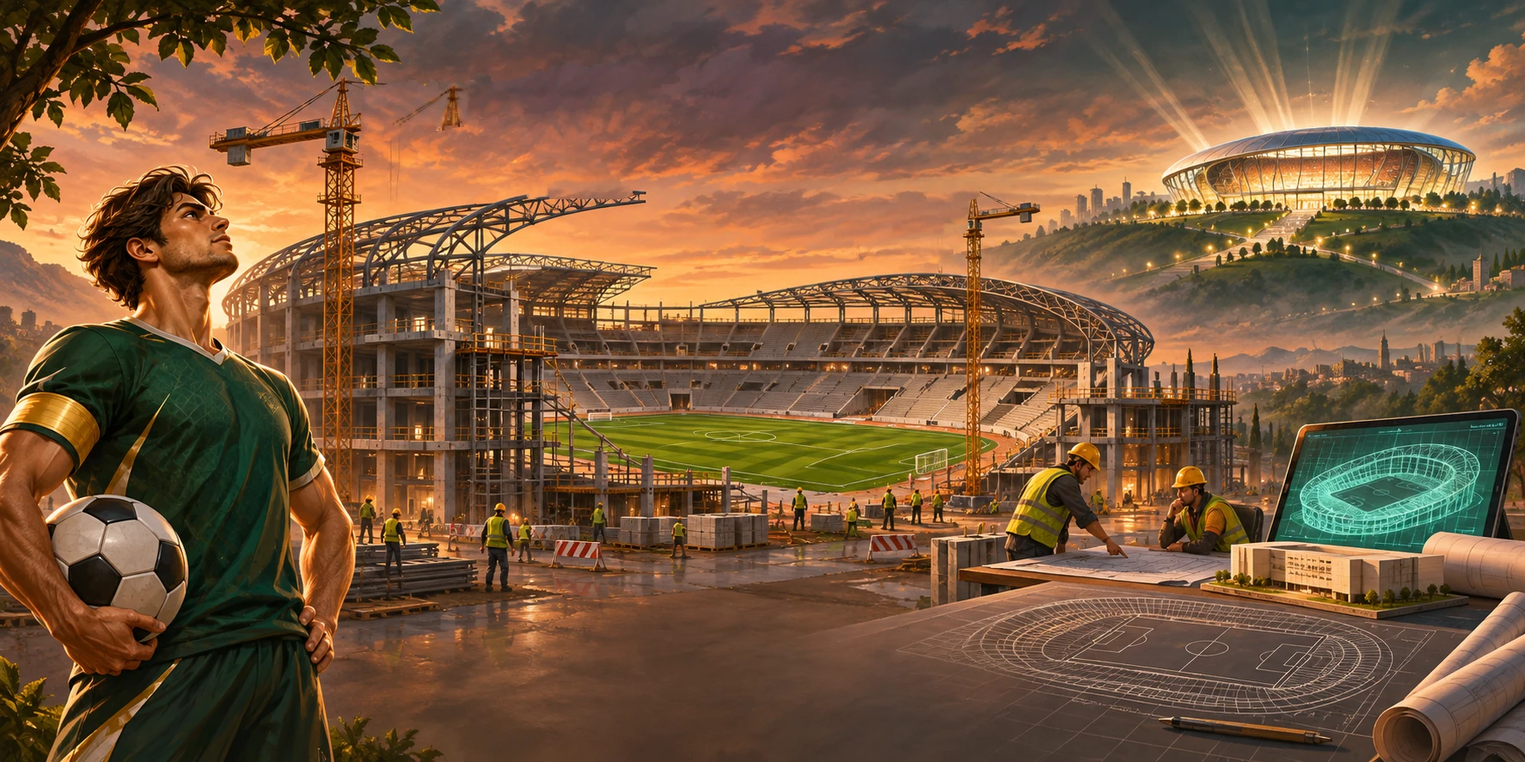
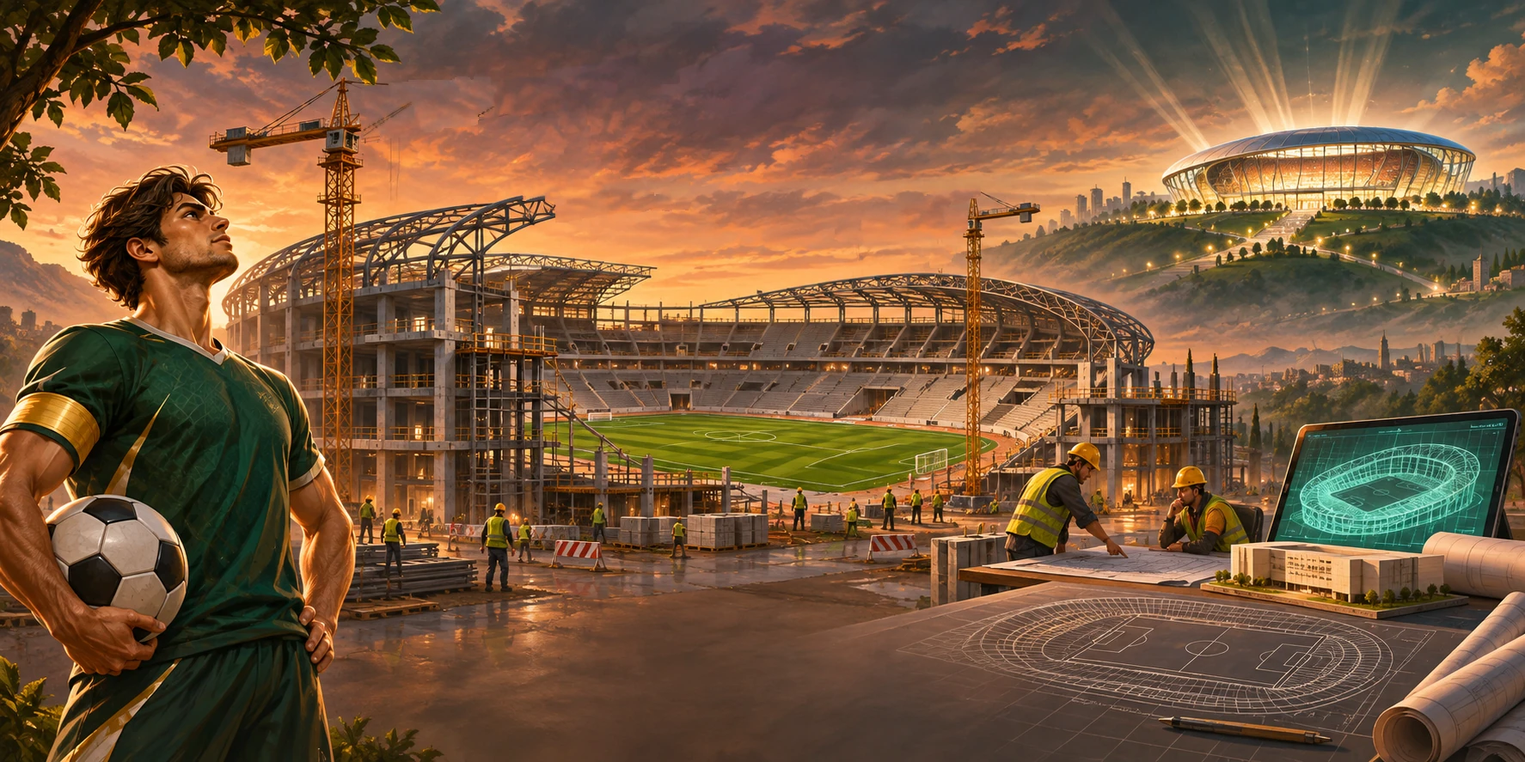
Pantalla final con curva tiempo-costo, registro en ventana con reporte descargable y grúa del estadio corregida
- Curva ilustrativa Tiempo vs Costo (plan sin retrabajo vs tu proyecto) en la columna de resultados
- Botón 'Registro de retrabajos' abre una ventana con el detalle y 'Descargar reporte' (HTML imprimible)
- 'Iniciar otra misión' después del registro
- Arena deportiva: la grúa ya no borra la estructura; la punta del arco que carga se mueve con el gancho y el cable se dibuja entre carro y gancho

Claude-Session: https://claude.ai/code/session_016C4SMzfis9RTQCCeDZUJF5

Changed region(s): [[0.217, 0.0913, 0.372, 0.1826], [0.341, 0.2131, 0.434, 0.3044], [0.5581, 0.274, 0.6201, 0.3348]]

diff --git a/public/scene-anim.js b/public/scene-anim.js
@@ -1,2 +1,2 @@
 // Generado por tools/escenas/build.py. No editar a mano: cambia tools/escenas/spec.py.
-window.SCENE_ANIM = {"gol":{"w":1774,"h":887,"plate":"assets/anim/gol-plate.webp","pieces":[{"id":"g1-pluma","src":"assets/anim/gol-g1-pluma.webp","x":417,"y":58,"w":375,"h":110,"type":"slew","axis":398,"amp":0.06,"period":14,"phase":0,"light":[782,64]},{"id":"g1-eslingas","src":"assets/anim/gol-g1-eslingas.webp","x":609,"y":167,"w":127,"h":65,"type":"erase"},{"id":"g1-gancho","src":"assets/anim/gol-g1-gancho.webp","x":653,"y":91,"w":37,"h":97,"type":"hang","follow":"g1-pluma","top":[670,104],"swing":0,"bob":0,"from":[670,177],"anchors":[[628,218],[672,220],[716,218]]},{"id":"g2-pluma","src":"assets/anim/gol-g2-pluma.webp","x":968,"y":209,"w":174,"h":76,"type":"slew","axis":1131,"amp":0.2,"period":11,"phase":2,"light":[978,268]},{"id":"g2-gancho","src":"assets/anim/gol-g2-gancho.webp","x":1078,"y":255,"w":33,"h":57,"type":"hang","follow":"g2-pluma","top":[1094,266],"swing":1.5,"bob":2}]},"yardas":{"w":1752,"h":897,"plate":"assets/anim/yardas-plate.webp","pieces":[{"id":"y1-pluma","src":"assets/anim/yardas-y1-pluma.webp","x":579,"y":0,"w":397,"h":82,"type":"slew","axis":594,"amp":0.08,"period":13,"phase":0.5,"light":[962,8]},{"id":"y1-carga","src":"assets/anim/yardas-y1-carga.webp","x":663,"y":29,"w":235,"h":167,"type":"hang","follow":"y1-pluma","top":[787,44],"swing":1.0,"bob":1.5},{"id":"y1-obrero","src":"assets/anim/yardas-y1-obrero.webp","x":727,"y":155,"w":35,"h":55,"type":"static"},{"id":"y1-obrero2","src":"assets/anim/yardas-y1-obrero2.webp","x":645,"y":155,"w":35,"h":53,"type":"static"},{"id":"y2-pluma","src":"assets/anim/yardas-y2-pluma.webp","x":1520,"y":6,"w":198,"h":226,"type":"luff","pivot":[1676,218],"deg":2.0,"period":10,"phase":1.2,"light":[1544,22]},{"id":"y2-carga","src":"assets/anim/yardas-y2-carga.webp","x":1479,"y":7,"w":111,"h":204,"type":"hang","follow":"y2-pluma","top":[1533,24],"swing":1.4,"bob":2}]},"pista":{"w":1774,"h":887,"plate":"assets/anim/pista-plate.webp","pieces":[{"id":"p1-pluma","src":"assets/anim/pista-p1-pluma.webp","x":539,"y":41,"w":306,"h":145,"type":"slew","axis":528,"amp":0.14,"period":12,"phase":0,"light":[836,58]},{"id":"p1-carga","src":"assets/anim/pista-p1-carga.webp","x":595,"y":93,"w":171,"h":198,"type":"hang","follow":"p1-pluma","top":[704,112],"swing":1.6,"bob":2},{"id":"p2-pluma","src":"assets/anim/pista-p2-pluma.webp","x":980,"y":121,"w":76,"h":105,"type":"slew","axis":966,"amp":0.05,"period":10,"phase":2.4,"light":[1048,212]},{"id":"p2-carga","src":"assets/anim/pista-p2-carga.webp","x":1000,"y":205,"w":73,"h":156,"type":"hang","follow":"p2-pluma","top":[1033,218],"swing":1.2,"bob":1.5}]},"guardian":{"w":1600,"h":800,"plate":"assets/anim/guardian-plate.webp","pieces":[{"id":"g1-panel","src":"assets/anim/guardian-g1-panel.webp","x":240,"y":0,"w":143,"h":407,"type":"hang","top":[335,0],"swing":2.0,"bob":3,"period":9,"phase":0.8},{"id":"g2-pluma","src":"assets/anim/guardian-g2-pluma.webp","x":809,"y":179,"w":237,"h":161,"type":"slew","axis":1036,"amp":0.2,"period":12,"phase":2,"light":[822,318]},{"id":"g2-gancho","src":"assets/anim/guardian-g2-gancho.webp","x":907,"y":287,"w":37,"h":137,"type":"hang","follow":"g2-pluma","top":[924,302],"swing":1.5,"bob":2}]},"rosa":{"w":1600,"h":800,"plate":"assets/anim/rosa-plate.webp","pieces":[{"id":"carga","src":"assets/anim/rosa-carga.webp","x":1461,"y":0,"w":139,"h":294,"type":"hang","top":[1539,0],"swing":2.0,"bob":3,"period":8,"phase":0}]},"samurai":{"w":1600,"h":800,"plate":"assets/anim/samurai-plate.webp","pieces":[{"id":"s1-pluma","src":"assets/anim/samurai-s1-pluma.webp","x":179,"y":230,"w":261,"h":178,"type":"slew","axis":186,"amp":0.15,"period":13,"phase":1,"light":[426,394]},{"id":"s1-gancho","src":"assets/anim/samurai-s1-gancho.webp","x":299,"y":361,"w":39,"h":93,"type":"hang","follow":"s1-pluma","top":[317,372],"swing":1.5,"bob":2},{"id":"s2-pluma","src":"assets/anim/samurai-s2-pluma.webp","x":1461,"y":77,"w":139,"h":97,"type":"slew","axis":1478,"amp":-0.1,"period":15,"phase":3}]},"bloques":{"w":1774,"h":887,"plate":"assets/anim/bloques-plate.webp","pieces":[{"id":"b1-pluma","src":"assets/anim/bloques-b1-pluma.webp","x":690,"y":0,"w":338,"h":146,"type":"slew","axis":1022,"amp":-0.1,"period":13,"phase":0.4,"light":[700,10]},{"id":"b1-carga","src":"assets/anim/bloques-b1-carga.webp","x":684,"y":7,"w":133,"h":216,"type":"hang","follow":"b1-pluma","top":[749,22],"swing":2.0,"bob":3},{"id":"b2-pluma","src":"assets/anim/bloques-b2-pluma.webp","x":125,"y":156,"w":143,"h":64,"type":"slew","axis":121,"amp":0.2,"period":9,"phase":2.2,"light":[258,168]},{"id":"b2-gancho","src":"assets/anim/bloques-b2-gancho.webp","x":220,"y":170,"w":32,"h":61,"type":"hang","follow":"b2-pluma","top":[236,184],"swing":1.5,"bob":1}]},"magia":{"w":1752,"h":897,"plate":"assets/anim/magia-plate.webp","pieces":[{"id":"arco1","src":"assets/anim/magia-arco1.webp","x":965,"y":55,"w":63,"h":109,"type":"bob","amp":[0,-5],"rot":0.8,"period":7,"phase":0},{"id":"arco2","src":"assets/anim/magia-arco2.webp","x":1022,"y":22,"w":106,"h":124,"type":"bob","amp":[0,-5],"rot":-0.6,"period":8,"phase":1.3},{"id":"arco3","src":"assets/anim/magia-arco3.webp","x":1287,"y":15,"w":103,"h":127,"type":"bob","amp":[0,-5],"rot":0.6,"period":7.5,"phase":2.4},{"id":"arco4","src":"assets/anim/magia-arco4.webp","x":1404,"y":33,"w":68,"h":123,"type":"bob","amp":[0,-5],"rot":-0.8,"period":6.5,"phase":3.1},{"id":"arco5","src":"assets/anim/magia-arco5.webp","x":1508,"y":78,"w":203,"h":192,"type":"bob","amp":[0,-4],"rot":0.4,"period":9,"phase":4.0},{"id":"flujo1","src":"assets/anim/magia-flujo1.webp","x":796,"y":417,"w":68,"h":57,"type":"glide","vec":[12,-7],"float":2,"period":6,"phase":0},{"id":"flujo2","src":"assets/anim/magia-flujo2.webp","x":761,"y":396,"w":59,"h":50,"type":"glide","vec":[12,-7],"float":2,"period":6,"phase":0.8},{"id":"flujo3","src":"assets/anim/magia-flujo3.webp","x":777,"y":370,"w":59,"h":46,"type":"glide","vec":[12,-7],"float":2,"period":6,"phase":1.6},{"id":"flujo4","src":"assets/anim/magia-flujo4.webp","x":819,"y":354,"w":43,"h":43,"type":"glide","vec":[10,-6],"float":2,"period":6,"phase":2.4},{"id":"flujo5","src":"assets/anim/magia-flujo5.webp","x":841,"y":341,"w":56,"h":46,"type":"glide","vec":[10,-6],"float":2,"period":6,"phase":3.2},{"id":"flujo6","src":"assets/anim/magia-flujo6.webp","x":880,"y":319,"w":72,"h":50,"type":"glide","vec":[10,-6],"float":2,"period":6,"phase":4.0},{"id":"puente1","src":"assets/anim/magia-puente1.webp","x":1048,"y":571,"w":142,"h":100,"type":"glide","vec":[10,-3],"float":2,"period":7,"phase":0},{"id":"puente2","src":"assets/anim/magia-puente2.webp","x":1225,"y":533,"w":146,"h":78,"type":"glide","vec":[10,-3],"float":2,"period":7,"phase":1.2},{"id":"puente3","src":"assets/anim/magia-puente3.webp","x":1365,"y":529,"w":80,"h":63,"type":"glide","vec":[8,-2],"float":2,"period":7,"phase":2.4},{"id":"puente4","src":"assets/anim/magia-puente4.webp","x":1430,"y":532,"w":49,"h":45,"type":"glide","vec":[8,-2],"float":2,"period":7,"phase":3.6}]},"cosmos":{"w":1774,"h":887,"plate":"assets/anim/cosmos-plate.webp","pieces":[{"id":"brazo1-sup","src":"assets/anim/cosmos-brazo1-sup.webp","x":281,"y":328,"w":108,"h":90,"type":"rotate","pivot":[287,410],"deg":2.5,"period":8,"phase":0},{"id":"brazo1-ant","src":"assets/anim/cosmos-brazo1-ant.webp","x":363,"y":327,"w":148,"h":112,"type":"rotate","parent":"brazo1-sup","pivot":[373,344],"deg":5,"period":8,"phase":0.9},{"id":"brazo2-sup","src":"assets/anim/cosmos-brazo2-sup.webp","x":984,"y":305,"w":80,"h":99,"type":"rotate","pivot":[1042,374],"deg":2.5,"period":7,"phase":2},{"id":"brazo2-ant","src":"assets/anim/cosmos-brazo2-ant.webp","x":904,"y":307,"w":103,"h":85,"type":"rotate","parent":"brazo2-sup","pivot":[994,320],"deg":6,"period":7,"phase":2.8},{"id":"astro1","src":"assets/anim/cosmos-astro1.webp","x":348,"y":143,"w":64,"h":66,"type":"bob","amp":[1,-2],"rot":2,"period":3.6,"phase":0},{"id":"astro2","src":"assets/anim/cosmos-astro2.webp","x":184,"y":254,"w":60,"h":66,"type":"bob","amp":[1,-2],"rot":-2,"period":4.2,"phase":1},{"id":"astro3","src":"assets/anim/cosmos-astro3.webp","x":516,"y":123,"w":62,"h":55,"type":"bob","amp":[-1,-2],"rot":2,"period":3.9,"phase":2},{"id":"astro4","src":"assets/anim/cosmos-astro4.webp","x":579,"y":198,"w":67,"h":58,"type":"bob","amp":[1,-2],"rot":-2,"period":4.5,"phase":3},{"id":"astro5","src":"assets/anim/cosmos-astro5.webp","x":617,"y":303,"w":60,"h":63,"type":"bob","amp":[1,-2],"rot":2,"period":3.7,"phase":4},{"id":"rover1","src":"assets/anim/cosmos-rover1.webp","x":689,"y":448,"w":203,"h":136,"type":"drive","dx":-16,"period":10,"phase":0},{"id":"rover2","src":"assets/anim/cosmos-rover2.webp","x":1177,"y":475,"w":119,"h":68,"type":"drive","dx":-12,"period":9,"phase":2},{"id":"rover3","src":"assets/anim/cosmos-rover3.webp","x":1439,"y":476,"w":101,"h":55,"type":"drive","dx":12,"period":11,"phase":4}]}};
+window.SCENE_ANIM = {"gol":{"w":1774,"h":887,"plate":"assets/anim/gol-plate.webp","pieces":[{"id":"g1-pluma","src":"assets/anim/gol-g1-pluma.webp","x":417,"y":58,"w":375,"h":110,"type":"slew","axis":398,"amp":0.035,"period":14,"phase":0,"light":[782,64]},{"id":"g1-cable","src":"assets/anim/gol-g1-cable.webp","x":657,"y":97,"w":28,"h":62,"type":"erase"},{"id":"g1-carga","src":"assets/anim/gol-g1-carga.webp","x":605,"y":142,"w":199,"h":119,"type":"rotate","pivot":[650,240],"deg":2.2,"period":9,"phase":0,"cable":{"on":"g1-pluma","top":[670,105],"bottom":[670,151]}},{"id":"g2-pluma","src":"assets/anim/gol-g2-pluma.webp","x":968,"y":209,"w":174,"h":76,"type":"slew","axis":1131,"amp":0.2,"period":11,"phase":2,"light":[978,268]},{"id":"g2-gancho","src":"assets/anim/gol-g2-gancho.webp","x":1078,"y":255,"w":33,"h":57,"type":"hang","follow":"g2-pluma","top":[1094,266],"swing":1.5,"bob":2}]},"yardas":{"w":1752,"h":897,"plate":"assets/anim/yardas-plate.webp","pieces":[{"id":"y1-pluma","src":"assets/anim/yardas-y1-pluma.webp","x":579,"y":0,"w":397,"h":82,"type":"slew","axis":594,"amp":0.08,"period":13,"phase":0.5,"light":[962,8]},{"id":"y1-carga","src":"assets/anim/yardas-y1-carga.webp","x":663,"y":29,"w":235,"h":167,"type":"hang","follow":"y1-pluma","top":[787,44],"swing":1.0,"bob":1.5},{"id":"y1-obrero","src":"assets/anim/yardas-y1-obrero.webp","x":727,"y":155,"w":35,"h":55,"type":"static"},{"id":"y1-obrero2","src":"assets/anim/yardas-y1-obrero2.webp","x":645,"y":155,"w":35,"h":53,"type":"static"},{"id":"y2-pluma","src":"assets/anim/yardas-y2-pluma.webp","x":1520,"y":6,"w":198,"h":226,"type":"luff","pivot":[1676,218],"deg":2.0,"period":10,"phase":1.2,"light":[1544,22]},{"id":"y2-carga","src":"assets/anim/yardas-y2-carga.webp","x":1479,"y":7,"w":111,"h":204,"type":"hang","follow":"y2-pluma","top":[1533,24],"swing":1.4,"bob":2}]},"pista":{"w":1774,"h":887,"plate":"assets/anim/pista-plate.webp","pieces":[{"id":"p1-pluma","src":"assets/anim/pista-p1-pluma.webp","x":539,"y":41,"w":306,"h":145,"type":"slew","axis":528,"amp":0.14,"period":12,"phase":0,"light":[836,58]},{"id":"p1-carga","src":"assets/anim/pista-p1-carga.webp","x":595,"y":93,"w":171,"h":198,"type":"hang","follow":"p1-pluma","top":[704,112],"swing":1.6,"bob":2},{"id":"p2-pluma","src":"assets/anim/pista-p2-pluma.webp","x":980,"y":121,"w":76,"h":105,"type":"slew","axis":966,"amp":0.05,"period":10,"phase":2.4,"light":[1048,212]},{"id":"p2-carga","src":"assets/anim/pista-p2-carga.webp","x":1000,"y":205,"w":73,"h":156,"type":"hang","follow":"p2-pluma","top":[1033,218],"swing":1.2,"bob":1.5}]},"guardian":{"w":1600,"h":800,"plate":"assets/anim/guardian-plate.webp","pieces":[{"id":"g1-panel","src":"assets/anim/guardian-g1-panel.webp","x":240,"y":0,"w":143,"h":407,"type":"hang","top":[335,0],"swing":2.0,"bob":3,"period":9,"phase":0.8},{"id":"g2-pluma","src":"assets/anim/guardian-g2-pluma.webp","x":809,"y":179,"w":237,"h":161,"type":"slew","axis":1036,"amp":0.2,"period":12,"phase":2,"light":[822,318]},{"id":"g2-gancho","src":"assets/anim/guardian-g2-gancho.webp","x":907,"y":287,"w":37,"h":137,"type":"hang","follow":"g2-pluma","top":[924,302],"swing":1.5,"bob":2}]},"rosa":{"w":1600,"h":800,"plate":"assets/anim/rosa-plate.webp","pieces":[{"id":"carga","src":"assets/anim/rosa-carga.webp","x":1461,"y":0,"w":139,"h":294,"type":"hang","top":[1539,0],"swing":2.0,"bob":3,"period":8,"phase":0}]},"samurai":{"w":1600,"h":800,"plate":"assets/anim/samurai-plate.webp","pieces":[{"id":"s1-pluma","src":"assets/anim/samurai-s1-pluma.webp","x":179,"y":230,"w":261,"h":178,"type":"slew","axis":186,"amp":0.15,"period":13,"phase":1,"light":[426,394]},{"id":"s1-gancho","src":"assets/anim/samurai-s1-gancho.webp","x":299,"y":361,"w":39,"h":93,"type":"hang","follow":"s1-pluma","top":[317,372],"swing":1.5,"bob":2},{"id":"s2-pluma","src":"assets/anim/samurai-s2-pluma.webp","x":1461,"y":77,"w":139,"h":97,"type":"slew","axis":1478,"amp":-0.1,"period":15,"phase":3}]},"bloques":{"w":1774,"h":887,"plate":"assets/anim/bloques-plate.webp","pieces":[{"id":"b1-pluma","src":"assets/anim/bloques-b1-pluma.webp","x":690,"y":0,"w":338,"h":146,"type":"slew","axis":1022,"amp":-0.1,"period":13,"phase":0.4,"light":[700,10]},{"id":"b1-carga","src":"assets/anim/bloques-b1-carga.webp","x":684,"y":7,"w":133,"h":216,"type":"hang","follow":"b1-pluma","top":[749,22],"swing":2.0,"bob":3},{"id":"b2-pluma","src":"assets/anim/bloques-b2-pluma.webp","x":125,"y":156,"w":143,"h":64,"type":"slew","axis":121,"amp":0.2,"period":9,"phase":2.2,"light":[258,168]},{"id":"b2-gancho","src":"assets/anim/bloques-b2-gancho.webp","x":220,"y":170,"w":32,"h":61,"type":"hang","follow":"b2-pluma","top":[236,184],"swing":1.5,"bob":1}]},"magia":{"w":1752,"h":897,"plate":"assets/anim/magia-plate.webp","pieces":[{"id":"arco1","src":"assets/anim/magia-arco1.webp","x":965,"y":55,"w":63,"h":109,"type":"bob","amp":[0,-5],"rot":0.8,"period":7,"phase":0},{"id":"arco2","src":"assets/anim/magia-arco2.webp","x":1022,"y":22,"w":106,"h":124,"type":"bob","amp":[0,-5],"rot":-0.6,"period":8,"phase":1.3},{"id":"arco3","src":"assets/anim/magia-arco3.webp","x":1287,"y":15,"w":103,"h":127,"type":"bob","amp":[0,-5],"rot":0.6,"period":7.5,"phase":2.4},{"id":"arco4","src":"assets/anim/magia-arco4.webp","x":1404,"y":33,"w":68,"h":123,"type":"bob","amp":[0,-5],"rot":-0.8,"period":6.5,"phase":3.1},{"id":"arco5","src":"assets/anim/magia-arco5.webp","x":1508,"y":78,"w":203,"h":192,"type":"bob","amp":[0,-4],"rot":0.4,"period":9,"phase":4.0},{"id":"flujo1","src":"assets/anim/magia-flujo1.webp","x":796,"y":417,"w":68,"h":57,"type":"glide","vec":[12,-7],"float":2,"period":6,"phase":0},{"id":"flujo2","src":"assets/anim/magia-flujo2.webp","x":761,"y":396,"w":59,"h":50,"type":"glide","vec":[12,-7],"float":2,"period":6,"phase":0.8},{"id":"flujo3","src":"assets/anim/magia-flujo3.webp","x":777,"y":370,"w":59,"h":46,"type":"glide","vec":[12,-7],"float":2,"period":6,"phase":1.6},{"id":"flujo4","src":"assets/anim/magia-flujo4.webp","x":819,"y":354,"w":43,"h":43,"type":"glide","vec":[10,-6],"float":2,"period":6,"phase":2.4},{"id":"flujo5","src":"assets/anim/magia-flujo5.webp","x":841,"y":341,"w":56,"h":46,"type":"glide","vec":[10,-6],"float":2,"period":6,"phase":3.2},{"id":"flujo6","src":"assets/anim/magia-flujo6.webp","x":880,"y":319,"w":72,"h":50,"type":"glide","vec":[10,-6],"float":2,"period":6,"phase":4.0},{"id":"puente1","src":"assets/anim/magia-puente1.webp","x":1048,"y":571,"w":142,"h":100,"type":"glide","vec":[10,-3],"float":2,"period":7,"phase":0},{"id":"puente2","src":"assets/anim/magia-puente2.webp","x":1225,"y":533,"w":146,"h":78,"type":"glide","vec":[10,-3],"float":2,"period":7,"phase":1.2},{"id":"puente3","src":"assets/anim/magia-puente3.webp","x":1365,"y":529,"w":80,"h":63,"type":"glide","vec":[8,-2],"float":2,"period":7,"phase":2.4},{"id":"puente4","src":"assets/anim/magia-puente4.webp","x":1430,"y":532,"w":49,"h":45,"type":"glide","vec":[8,-2],"float":2,"period":7,"phase":3.6}]},"cosmos":{"w":1774,"h":887,"plate":"assets/anim/cosmos-plate.webp","pieces":[{"id":"brazo1-sup","src":"assets/anim/cosmos-brazo1-sup.webp","x":281,"y":328,"w":108,"h":90,"type":"rotate","pivot":[287,410],"deg":2.5,"period":8,"phase":0},{"id":"brazo1-ant","src":"assets/anim/cosmos-brazo1-ant.webp","x":363,"y":327,"w":148,"h":112,"type":"rotate","parent":"brazo1-sup","pivot":[373,344],"deg":5,"period":8,"phase":0.9},{"id":"brazo2-sup","src":"assets/anim/cosmos-brazo2-sup.webp","x":984,"y":305,"w":80,"h":99,"type":"rotate","pivot":[1042,374],"deg":2.5,"period":7,"phase":2},{"id":"brazo2-ant","src":"assets/anim/cosmos-brazo2-ant.webp","x":904,"y":307,"w":103,"h":85,"type":"rotate","parent":"brazo2-sup","pivot":[994,320],"deg":6,"period":7,"phase":2.8},{"id":"astro1","src":"assets/anim/cosmos-astro1.webp","x":348,"y":143,"w":64,"h":66,"type":"bob","amp":[1,-2],"rot":2,"period":3.6,"phase":0},{"id":"astro2","src":"assets/anim/cosmos-astro2.webp","x":184,"y":254,"w":60,"h":66,"type":"bob","amp":[1,-2],"rot":-2,"period":4.2,"phase":1},{"id":"astro3","src":"assets/anim/cosmos-astro3.webp","x":516,"y":123,"w":62,"h":55,"type":"bob","amp":[-1,-2],"rot":2,"period":3.9,"phase":2},{"id":"astro4","src":"assets/anim/cosmos-astro4.webp","x":579,"y":198,"w":67,"h":58,"type":"bob","amp":[1,-2],"rot":-2,"period":4.5,"phase":3},{"id":"astro5","src":"assets/anim/cosmos-astro5.webp","x":617,"y":303,"w":60,"h":63,"type":"bob","amp":[1,-2],"rot":2,"period":3.7,"phase":4},{"id":"rover1","src":"assets/anim/cosmos-rover1.webp","x":689,"y":448,"w":203,"h":136,"type":"drive","dx":-16,"period":10,"phase":0},{"id":"rover2","src":"assets/anim/cosmos-rover2.webp","x":1177,"y":475,"w":119,"h":68,"type":"drive","dx":-12,"period":9,"phase":2},{"id":"rover3","src":"assets/anim/cosmos-rover3.webp","x":1439,"y":476,"w":101,"h":55,"type":"drive","dx":12,"period":11,"phase":4}]}};

diff --git a/public/app.js b/public/app.js
@@ -139,6 +139,8 @@ const Scene=(()=>{
       for(const q of pieces){
         const M=C.multiply(out[q.id]).multiply(Ci);
         ctx.setTransform(M);ctx.drawImage(q.cut[z],q.bx,q.by);
+        if(q.cable){ctx.setTransform(1,0,0,1,0,0);const A=new DOMPoint(q.cable.top[0],q.cable.top[1]).matrixTransform(C.multiply(out[q.cable.on])),Bp=new DOMPoint(q.cable.bottom[0],q.cable.bottom[1]).matrixTransform(C.multiply(out[q.id]));
+          ctx.strokeStyle=lineCol[z];ctx.lineWidth=Math.max(1,2.2*s);ctx.beginPath();ctx.moveTo(A.x-1.6*s,A.y);ctx.lineTo(Bp.x-1.6*s,Bp.y);ctx.moveTo(A.x+1.6*s,A.y);ctx.lineTo(Bp.x+1.6*s,Bp.y);ctx.stroke();}
         if(q.anchors){ctx.setTransform(1,0,0,1,0,0);const f=new DOMPoint(q.from[0],q.from[1]).matrixTransform(C.multiply(out[q.id]));
           ctx.strokeStyle=lineCol[z];ctx.lineWidth=Math.max(1,1.6*s);ctx.beginPath();
           q.anchors.forEach(([ax,ay])=>{ctx.moveTo(f.x,f.y);ctx.lineTo(ox+ax*s,oy+ay*s);});ctx.stroke();}
@@ -251,11 +253,73 @@ async function refresh(force){
     if(/no encontrada/i.test(e.message)){localStorage.removeItem('bim-player-id');id=null;state=null;$('game').hidden=true;$('entry').hidden=false;document.body.classList.remove('in-game');msg('La partida ya no existe en el servidor. Inicia una nueva misión.');}
   }
 }
+// ---- Curva Tiempo–Costo (ilustrativa) ----
+// Plan: cada etapa dura lo mismo y consume un porcentaje del presupuesto (curva en S).
+// Cada retrabajo alarga su etapa y suma costo. Son reglas del juego, no horas ni pesos reales.
+const STAGE_COST=[.14,.30,.26,.20,.10],REWORK_TIME=.22,REWORK_COST=.035;
+function costCurve(history){
+  const n=history.length,share=i=>STAGE_COST[i]??1/n;
+  let tp=0,cp=0,tr=0,cr=0;const plan=[[0,0]],real=[[0,0]];
+  history.forEach((h,i)=>{const w=h.work||0;tp+=1;cp+=share(i);tr+=1+REWORK_TIME*w;cr+=share(i)+REWORK_COST*w;plan.push([tp,cp]);real.push([tr,cr]);});
+  return {plan,real,extraTime:tr/tp-1,extraCost:cr/cp-1};
+}
+function costChartSVG(history,opts={}){
+  const {plan,real,extraTime,extraCost}=costCurve(history);
+  const W=opts.w||320,H=opts.h||170,L=30,R=12,T=12,B=26;
+  const maxX=Math.max(real.at(-1)[0],plan.at(-1)[0])*1.04,maxY=Math.max(real.at(-1)[1],plan.at(-1)[1])*1.08;
+  const X=x=>L+(W-L-R)*x/maxX,Y=y=>H-B-(H-T-B)*y/maxY;
+  const path=pts=>pts.map(([x,y],i)=>`${i?'L':'M'}${X(x).toFixed(1)},${Y(y).toFixed(1)}`).join('');
+  const col=opts.real||'var(--avatar-color,#f0a35e)',axis=opts.axis||'#bfae95',grid=opts.grid||'rgba(191,174,149,.18)',txt=opts.text||'#e6d6bd';
+  const last=real.at(-1),pl=plan.at(-1);
+  return `<svg class="cost-chart" viewBox="0 0 ${W} ${H}" role="img" aria-label="Curva de tiempo y costo: tu proyecto terminó con ${Math.round(extraTime*100)}% más tiempo y ${Math.round(extraCost*100)}% más costo que el plan sin retrabajo">
+    ${[.25,.5,.75,1].map(f=>`<line x1="${L}" x2="${W-R}" y1="${Y(maxY*f/1.08).toFixed(1)}" y2="${Y(maxY*f/1.08).toFixed(1)}" stroke="${grid}" stroke-width="1"/>`).join('')}
+    <line x1="${L}" y1="${T}" x2="${L}" y2="${H-B}" stroke="${axis}" stroke-width="1.5"/>
+    <line x1="${L}" y1="${H-B}" x2="${W-R}" y2="${H-B}" stroke="${axis}" stroke-width="1.5"/>
+    <text x="${(L+W-R)/2}" y="${H-6}" text-anchor="middle" fill="${txt}" font-size="11" font-weight="700">Tiempo</text>
+    <text x="11" y="${(T+H-B)/2}" text-anchor="middle" fill="${txt}" font-size="11" font-weight="700" transform="rotate(-90 11 ${(T+H-B)/2})">Costo</text>
+    <path d="${path(plan)}" fill="none" stroke="${axis}" stroke-width="2" stroke-dasharray="5 4"/>
+    <path d="${path(real)}" fill="none" stroke="${col}" stroke-width="2.6" stroke-linejoin="round" stroke-linecap="round"/>
+    <circle cx="${X(pl[0]).toFixed(1)}" cy="${Y(pl[1]).toFixed(1)}" r="3.5" fill="${axis}"/>
+    <circle cx="${X(last[0]).toFixed(1)}" cy="${Y(last[1]).toFixed(1)}" r="4.5" fill="${col}"/>
+    <line x1="${X(pl[0]).toFixed(1)}" y1="${Y(pl[1]).toFixed(1)}" x2="${X(pl[0]).toFixed(1)}" y2="${H-B}" stroke="${axis}" stroke-width="1" stroke-dasharray="2 3"/>
+    <line x1="${X(last[0]).toFixed(1)}" y1="${Y(last[1]).toFixed(1)}" x2="${X(last[0]).toFixed(1)}" y2="${H-B}" stroke="${col}" stroke-width="1" stroke-dasharray="2 3"/>
+    <text x="${(X(pl[0])-6).toFixed(1)}" y="${(Y(pl[1])+16).toFixed(1)}" text-anchor="end" fill="${txt}" font-size="10">Plan</text>
+    <text x="${(X(last[0])-6).toFixed(1)}" y="${(Y(last[1])-7).toFixed(1)}" text-anchor="end" fill="${txt}" font-size="10" font-weight="700">Real</text>
+  </svg>`;
+}
+function costSummary(history){
+  const {extraTime,extraCost}=costCurve(history),pct=v=>`${v>0?'+':''}${Math.round(v*100)}%`;
+  return {time:pct(extraTime),cost:pct(extraCost)};
+}
 function finishedView(){
   const max=Math.max(3,...state.history.map(h=>h.work||0));
   const bars=state.history.map((h,i)=>`<div class="bar-row"><span>${esc(stageLabels()[i])}</span><div class="bar"><i style="width:${100*(h.work||0)/max}%"></i></div><b>${h.work||0}</b></div>`).join('');
-  const clean=state.history.filter(h=>!h.work).length;
-  return `<span class="eyebrow">MISIÓN COMPLETADA</span><h2>Tu edificio está terminado</h2><div class="final-score"><strong>${state.rework}</strong><span>retrabajo(s)<br><small>${clean} de ${state.total} etapas sin retrabajo</small></span></div><div class="bars" aria-label="Retrabajo por etapa">${bars}</div><p class="hint">Abajo de la escena está el detalle de cada etapa y qué decisión lo habría evitado.</p><button id="again" type="button">Iniciar otra misión</button>`;
+  const clean=state.history.filter(h=>!h.work).length,sum=costSummary(state.history);
+  return `<span class="eyebrow">MISIÓN COMPLETADA</span><h2>Tu edificio está terminado</h2><div class="final-score"><strong>${state.rework}</strong><span>retrabajo(s)<br><small>${clean} de ${state.total} etapas sin retrabajo</small></span></div><div class="bars" aria-label="Retrabajo por etapa">${bars}</div>
+  <figure class="cost-figure">${costChartSVG(state.history)}<figcaption><span class="legend"><i class="lg-plan"></i>Plan sin retrabajo</span><span class="legend"><i class="lg-real"></i>Tu proyecto: <b>${sum.time}</b> tiempo · <b>${sum.cost}</b> costo</span><small>Valores ilustrativos del juego.</small></figcaption></figure>
+  <div class="final-actions"><button id="openHistory" type="button" class="secondary">Registro de retrabajos</button><button id="again" type="button">Iniciar otra misión</button></div>`;
+}
+function reportHTML(){
+  const s=state,date=new Date().toLocaleString('es-MX',{dateStyle:'long',timeStyle:'short'}),sum=costSummary(s.history);
+  const rows=s.history.map((h,i)=>`<section class="st"><h3>${i+1}. ${esc(stageLabels()[i])} — ${esc(h.title)} <span class="w ${h.work?'':'ok'}">${h.work} retrabajo(s)</span></h3><p><b>Decisión:</b> ${esc(h.choice)}</p><p><b>Resultado en obra:</b> ${esc(h.build)}</p><p><b>Efecto para el siguiente equipo:</b> ${esc(h.effect)}</p>${h.carryover?'<p class="n">Incluye 1 retrabajo por una incertidumbre arrastrada desde la etapa anterior.</p>':''}${h.best&&h.work>0&&h.best!==h.choice?`<p class="b"><b>Opción con menos retrabajo:</b> ${esc(h.best)}</p>`:''}${h.lesson?`<p class="l"><b>Concepto BIM:</b> ${esc(h.lesson)}</p>`:''}</section>`).join('');
+  const chart=costChartSVG(s.history,{w:520,h:240,real:'#c4621d',axis:'#7a6a58',grid:'#e7dfd3',text:'#3a2f25'});
+  return `<!doctype html><html lang="es"><head><meta charset="utf-8"><title>Reporte Misión BIM · ${esc(s.name)}</title><style>
+body{font:15px/1.5 system-ui,Segoe UI,Arial,sans-serif;color:#2a221b;background:#fff;max-width:820px;margin:32px auto;padding:0 20px}
+h1{font:700 28px/1.15 Georgia,serif;margin:0 0 4px}h2{font:700 18px Georgia,serif;margin:28px 0 10px}.meta{color:#6b5d4f;margin:0 0 20px}
+.kpis{display:flex;gap:12px;flex-wrap:wrap}.kpi{border:1px solid #e1d6c6;border-radius:10px;padding:10px 14px;min-width:120px}.kpi b{display:block;font:700 26px Georgia,serif}.kpi span{color:#6b5d4f;font-size:13px}
+.st{border-left:4px solid #e0a35e;padding:4px 0 4px 14px;margin:14px 0;break-inside:avoid}.st h3{font-size:16px;margin:0 0 6px}.st p{margin:4px 0}.w{font-size:12px;background:#fbe3cf;color:#8a3e0f;border-radius:20px;padding:2px 8px;margin-left:6px}.w.ok{background:#dcf3e8;color:#1f6b4a}
+.b{background:#eef7f2;border-radius:8px;padding:6px 10px}.l{background:#f8f2e8;border-radius:8px;padding:6px 10px}.n{color:#6b5d4f;font-size:13px}.legend{font-size:13px;color:#6b5d4f}.foot{color:#8a7b6a;font-size:12px;margin-top:28px}
+@media print{body{margin:0}}</style></head><body>
+<h1>Reporte de misión BIM</h1><p class="meta">${esc(s.name)} · ${esc(s.avatar.name)} · ${esc(s.avatar.building)} · ${date}</p>
+<div class="kpis"><div class="kpi"><b>${s.rework}</b><span>retrabajos en total</span></div>${s.myPlace?`<div class="kpi"><b>${s.myPlace}.º</b><span>lugar de ${s.finishedCount}</span></div>`:''}<div class="kpi"><b>${sum.time}</b><span>tiempo vs. plan</span></div><div class="kpi"><b>${sum.cost}</b><span>costo vs. plan</span></div></div>
+<h2>Curva tiempo–costo</h2>${chart}<p class="legend">Línea punteada: plan sin retrabajo. Línea continua: tu proyecto. Valores ilustrativos del juego, no equivalen a horas ni costos reales.</p>
+<h2>Registro de retrabajos por etapa</h2>${rows}
+<p class="foot">Generado por Misión BIM.</p></body></html>`;
+}
+function downloadReport(){
+  const blob=new Blob([reportHTML()],{type:'text/html;charset=utf-8'}),url=URL.createObjectURL(blob),a=document.createElement('a');
+  const slug=String(state.name).normalize('NFD').replace(/[̀-ͯ]/g,'').replace(/[^A-Za-z]+/g,'-').replace(/^-|-$/g,'').toLowerCase()||'jugador';
+  a.href=url;a.download=`reporte-mision-bim-${slug}.html`;document.body.appendChild(a);a.click();a.remove();setTimeout(()=>URL.revokeObjectURL(url),2000);
 }
 function historyItem(h,i){
   const best=h.best&&h.work>0&&h.best!==h.choice?`<p class="best"><span>Opción con menos retrabajo en esta etapa</span>${esc(h.best)}</p>`:'';
@@ -282,12 +346,11 @@ function render(){
   document.body.style.setProperty('--avatar-scene',`url('${sceneSrc(state.avatar)}')`);
   $('identity').innerHTML=`<span class="avatar-icon">${avatarIcon(state.avatar)}</span><strong>${esc(state.name)}</strong><small>${esc(state.avatar.name)}</small>`;
   clock();fitHeight();drawBuilding();
-  $('historyCard').hidden=!state.finished;
   $('history').innerHTML=state.finished?state.history.map(historyItem).join(''):'';
   const side=$('sideCard'),html=state.finished?resultView():feedbackView();
   if(side.dataset.html!==html){side.innerHTML=html;side.dataset.html=html;side.classList.remove('flash');void side.offsetWidth;side.classList.add('flash');}
   side.classList.toggle('result',state.finished);side.classList.toggle('empty',!state.finished&&!state.history.length);
-  if(state.finished){$('scenario').innerHTML=finishedView();$('again').onclick=newGame;return;}
+  if(state.finished){$('scenario').innerHTML=finishedView();$('again').onclick=newGame;$('openHistory').onclick=()=>{const d=$('historyDialog');d.showModal?d.showModal():d.setAttribute('open','');};return;}
   const m=state.mission;
   $('scenario').innerHTML=`<span class="eyebrow">MISIÓN ${state.history.length+1} DE ${state.total}${m.phase?` · ${esc(m.phase)}`:''}</span><h2>${esc(m.title)}</h2><p class="prompt">${esc(m.prompt)}</p><div class="options">${m.options.map((o,i)=>`<button class="option" data-choice="${i}"><span class="option-key">${'ABC'[i]||i+1}</span><span class="option-text">${esc(o)}</span></button>`).join('')}</div>`;
   document.querySelectorAll('[data-choice]').forEach(b=>b.onclick=()=>answer(Number(b.dataset.choice)));
@@ -306,6 +369,9 @@ function selectAvatar(b){selected=b.dataset.avatar;document.querySelectorAll('[d
 async function init(){try{avatars=await api('/api/avatars');$('avatars').innerHTML=avatars.map(a=>`<button class="avatar-card" data-avatar="${a.id}" type="button" aria-pressed="false" style="--card-scene:url('${sceneSrc(a)}')"><span>${avatarIcon(a)}</span><strong>${esc(a.name)}</strong><small>${esc(a.building)}</small></button>`).join('');document.querySelectorAll('[data-avatar]').forEach(b=>b.onclick=()=>selectAvatar(b));if(id){try{state=await api(`/api/state?id=${encodeURIComponent(id)}`);render();}catch{localStorage.removeItem('bim-player-id');id=null;}}}catch(e){msg(e.message);}}
 async function start(){if(!$('name').value.trim()){msg('Escribe tu nombre para comenzar.');$('name').focus();return;}if(!selected){msg('Elige una misión para comenzar.');$('avatars').scrollIntoView({block:'nearest'});return;}$('start').disabled=true;try{state=await api('/api/start',{name:$('name').value,avatar:selected});id=state.id;localStorage.setItem('bim-player-id',id);msg('');render();window.scrollTo({top:0});}catch(e){msg(e.message);}finally{$('start').disabled=false;}}
 $('start').onclick=start;
+$('closeHistory').onclick=()=>{const d=$('historyDialog');d.close?d.close():d.removeAttribute('open');};
+$('historyDialog').addEventListener('click',e=>{if(e.target===e.currentTarget)e.currentTarget.close();});
+$('downloadReport').onclick=downloadReport;
 $('name').addEventListener('keydown',e=>{if(e.key==='Enter')start();});
 // solo letras (con acentos y ñ) y espacios simples
 const NAME_OK=/[^A-Za-zÁÉÍÓÚÜÑáéíóúüñ ]/g;

diff --git a/public/style.css b/public/style.css
@@ -136,3 +136,24 @@ body.in-game header{display:none}
 .progress-labels span{overflow-wrap:normal;white-space:nowrap}
 @media(max-width:750px){.progress-labels span{font-size:.66rem;letter-spacing:-.01em}}
 .progress-track i{background:var(--avatar-color,#e6c88e);box-shadow:none}
+/* ---- Curva tiempo–costo y botones finales ---- */
+.cost-figure{margin:14px 0 0;padding:12px 12px 8px;border:1px solid #6c594766;border-radius:12px;background:#1d1815aa}
+.cost-chart{display:block;width:100%;height:auto}
+.cost-figure figcaption{display:flex;flex-wrap:wrap;gap:4px 14px;margin-top:6px;font-size:.8rem;color:#e6d6bd}
+.cost-figure figcaption small{flex-basis:100%;color:#a8977f;font-size:.72rem}
+.legend{display:inline-flex;align-items:center;gap:6px}.legend b{color:#fff0d7}
+.legend i{display:inline-block;width:18px;height:0;border-top:2.5px solid var(--avatar-color,#f0a35e)}.legend i.lg-plan{border-top:2px dashed #bfae95}
+.final-actions{display:flex;flex-direction:column;gap:10px;margin-top:14px}
+.final-actions button{width:100%}
+.final-actions .secondary{color:#f1d59e;border-color:#c9a974}
+/* Ventana del registro */
+.history-dialog{width:min(860px,calc(100vw - 32px));max-height:calc(100dvh - 48px);padding:0;border:1px solid #9f835c;border-radius:16px;background:#191512;color:#e8f2f0;box-shadow:0 30px 80px #000a}
+.history-dialog::backdrop{background:#0b0908cc;backdrop-filter:blur(3px)}
+.dialog-head{position:sticky;top:0;z-index:1;display:flex;justify-content:space-between;align-items:flex-end;gap:16px;flex-wrap:wrap;padding:18px 22px 14px;background:#191512;border-bottom:1px solid #6c594766}
+.dialog-head h2{margin:4px 0 0;font-family:Georgia,serif;color:#fff0d7}
+.dialog-actions{display:flex;gap:10px}
+.dialog-body{padding:6px 22px 22px}
+.arena{grid-template-areas:"q scene side"}
+@media(min-width:1181px){.arena{grid-template-rows:max(560px,calc(100dvh - var(--topH,72px) - 60px))}}
+@media(max-width:1180px){.arena{grid-template-areas:"scene scene" "q side"}}
+@media(max-width:750px){.arena{grid-template-areas:"scene" "side" "q"}}

diff --git a/public/index.html b/public/index.html
@@ -9,6 +9,9 @@
     <section class="card question-card" id="scenario"></section>
     <section class="card project-card"><div class="project-heading"><div><span class="eyebrow">TU PROYECTO</span><h2 id="buildingName"></h2></div><div id="projectStage"></div></div><div id="projectVisual"></div><div id="projectStatus"></div></section>
     <aside class="card side-card" id="sideCard" aria-live="polite"></aside>
-    <section class="card history-card" id="historyCard" hidden><h2>Registro de retrabajos</h2><div id="history"></div></section>
   </div>
-</section><p id="message" role="status"></p></main><script src="/scene-anim.js"></script><script src="/app.js"></script></body></html>
+</section><p id="message" role="status"></p></main>
+<dialog id="historyDialog" class="history-dialog" aria-labelledby="historyTitle">
+  <div class="dialog-head"><div><span class="eyebrow">TU PROYECTO</span><h2 id="historyTitle">Registro de retrabajos</h2></div><div class="dialog-actions"><button id="downloadReport" type="button">Descargar reporte</button><button id="closeHistory" type="button" class="secondary" aria-label="Cerrar">Cerrar</button></div></div>
+  <div id="history" class="dialog-body"></div>
+</dialog><script src="/scene-anim.js"></script><script src="/app.js"></script></body></html>

diff --git a/tools/escenas/spec.py b/tools/escenas/spec.py
@@ -26,12 +26,16 @@ SCENES = {
   # ---------- grúas: 'poly'/'polys' ajustados a la estructura; 'add' = partes sólidas (cargas, contrapesos)
   'gol': {'pieces': [
     {'id': 'g1-pluma', 'poly': [[424,106],[792,60],[792,94],[424,160]],
-     'motion': {'type': 'slew', 'axis': 398, 'amp': .06, 'period': 14, 'phase': 0, 'light': [782,64]}},
-    {'id': 'g1-eslingas', 'poly': [[666,174],[616,224],[728,224],[676,174]],
+     'motion': {'type': 'slew', 'axis': 398, 'amp': .035, 'period': 14, 'phase': 0, 'light': [782,64]}},
+    # cable del gancho: se borra y se dibuja como línea entre el carro de la pluma y el gancho
+    {'id': 'g1-cable', 'poly': rect(664,104,677,151),
      'motion': {'type': 'erase'}},
-    {'id': 'g1-gancho', 'poly': [[660,98],[682,98],[682,180],[660,180]],
-     'motion': {'type': 'hang', 'follow': 'g1-pluma', 'top': [670,104], 'swing': 0, 'bob': 0,
-                'from': [670,177], 'anchors': [[628,218],[672,220],[716,218]]}},
+    # carga: gancho + eslingas + punta del arco de cubierta que se está colocando; gira sobre la unión
+    {'id': 'g1-carga', 'poly': rect(661,149,680,168),
+     'polys': [[[669,160],[612,226],[730,226],[673,160]],
+               [[650,228],[700,214],[796,210],[796,238],[700,247],[650,253]]],
+     'motion': {'type': 'rotate', 'pivot': [650,240], 'deg': 2.2, 'period': 9, 'phase': 0,
+                'cable': {'on': 'g1-pluma', 'top': [670,105], 'bottom': [670,151]}}},
     {'id': 'g2-pluma', 'poly': [[1120,242],[972,260],[972,280],[1120,264]],
      'polys': [[[1132,214],[1016,254],[1020,264],[1134,222]]],
      'motion': {'type': 'slew', 'axis': 1131, 'amp': .2, 'period': 11, 'phase': 2, 'light': [978,268]}},
